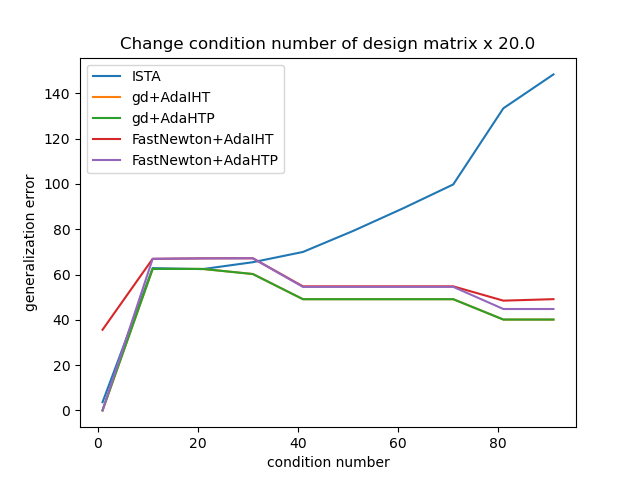
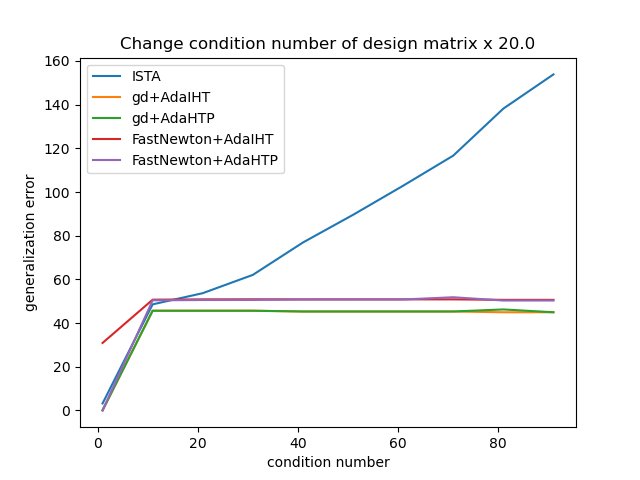
run 600 iterations on condition number simulation

diff --git a/utils/constants.py b/utils/constants.py
@@ -18,7 +18,7 @@ ANISOTROPIC_NAME = "anisotropic"
 STEPS = 200  # number of experiments
 N_ITERATION = 400  # number of iterations in ISTA or Hard Threshold
 GD_STEPS = 20  # number of experiments in compare_gradient_descent
-GD_NUM_ITERATION = 400  # number of iterations in ISTA or Hard Threshold
+GD_NUM_ITERATION = 600  # number of iterations in ISTA or Hard Threshold
 FAST_NEWTON_NUM_GD = 10  # number of gradient descent steps in fast newton
 N, P, S = 200, 1000, 10
 # noise
